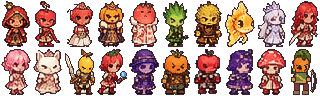
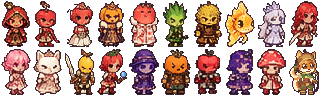
Replace character sheet; slot 19 becomes Fox Archer
Migrate saves that picked 'carrot' to 'fox'.

Claude-Session: https://claude.ai/code/session_018ewCLM6mMmyxg8PfAzKrJ1

Changed region(s): [[0.9062, 0.5, 1.0, 1.0], [0.0, 0.0312, 0.0312, 0.0625]]

diff --git a/src/data/chars.ts b/src/data/chars.ts
@@ -33,9 +33,9 @@ export const CHARS: CharDef[] = [
   { id: 'pepper', name: '고추 기사', frame: 16 },
   { id: 'grape', name: '포도', frame: 17 },
   { id: 'mushroom', name: '버섯', frame: 18 },
-  { id: 'carrot', name: '당근 궁수', frame: 19, weapon: false },
+  { id: 'fox', name: '여우 궁수', frame: 19, weapon: false },
 ];
 export const CHAR_BY_ID: Record<string, CharDef> = Object.fromEntries(CHARS.map((c) => [c.id, c]));
 
 // 직업별 기본 캐릭터
-export const CLASS_DEFAULT_CHAR: Record<string, string> = { blade: 'lemon', fist: 'durian', mage: 'witch', ranger: 'carrot', lancer: 'tangerine' };
+export const CLASS_DEFAULT_CHAR: Record<string, string> = { blade: 'lemon', fist: 'durian', mage: 'witch', ranger: 'fox', lancer: 'tangerine' };

diff --git a/src/core/state.ts b/src/core/state.ts
@@ -83,6 +83,7 @@ function migrate(s: any): SaveGame {
   s.seenStory ||= []; s.essence ||= [0, 0, 0, 0, 0, 0];
   s.name ||= '모험가'; s.look ||= { frame: CLASSES[s.classId]?.spr.frame ?? 96, tint: 0xffffff };
   if (s.look.char != null && typeof s.look.char !== 'string') delete s.look.char;
+  if (s.look.char === 'carrot') s.look.char = 'fox'; // 19번 칸: 당근 궁수 → 여우 궁수
   return s as SaveGame;
 }
 export function loadSettingsOnly(): Settings | null { const s = peekSave(); return s ? { ...defaultSettings(), ...s.settings } : null; }
